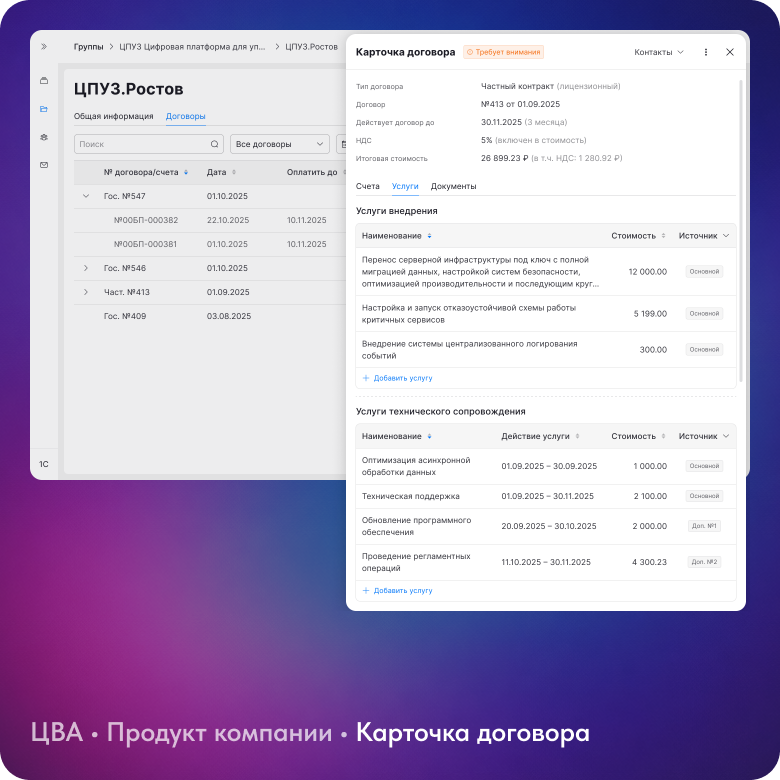
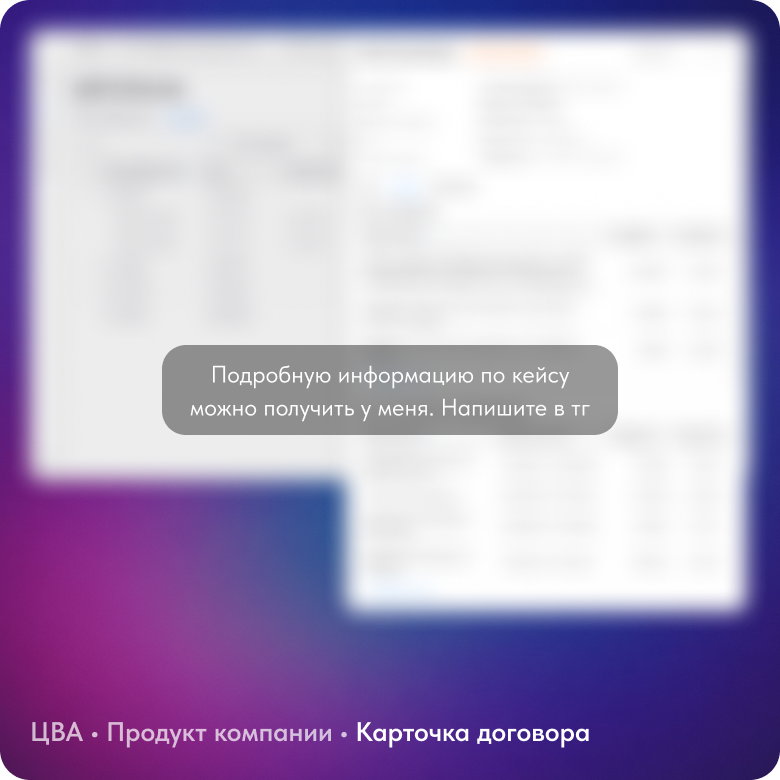
v.1.7

diff --git a/index.html b/index.html
@@ -7,7 +7,8 @@
     <link rel="icon" href="src/icons/favicon16.svg" type="image/svg+xml" />
     <link rel="stylesheet" href="styles.css" />
     <link rel="prefetch" href="./story-builder.html" />
-    <link rel="prefetch" href="./agreement-card.html" />
+    <!-- <link rel="prefetch" href="./agreement-card.html" /> -->
+    
   </head>
   <body class="page">
     <main class="main">
@@ -74,7 +75,7 @@
       </div>
       <div class="card-container anim-load anim-delay-3" id="cards">
         <div class="card-item card-item--1" data-href="./story-builder.html"></div>
-        <div class="card-item card-item--2" data-href="./agreement-card.html"></div>
+        <div class="card-item card-item--2"></div>
         <div class="card-item card-item--3"></div>
         <div class="card-item card-item--4"></div>
       </div>